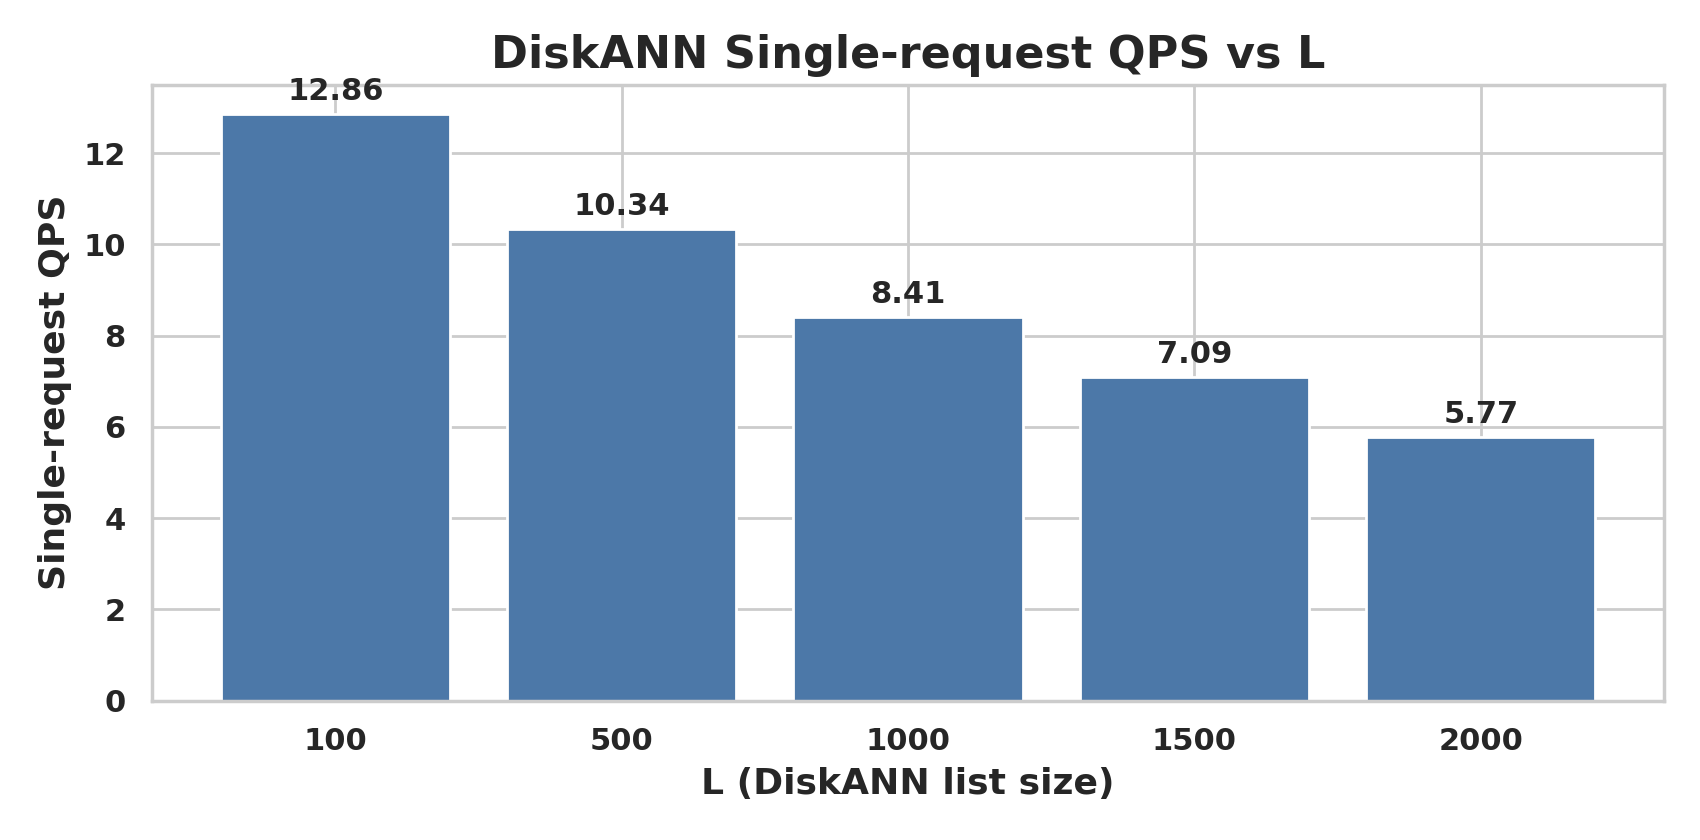
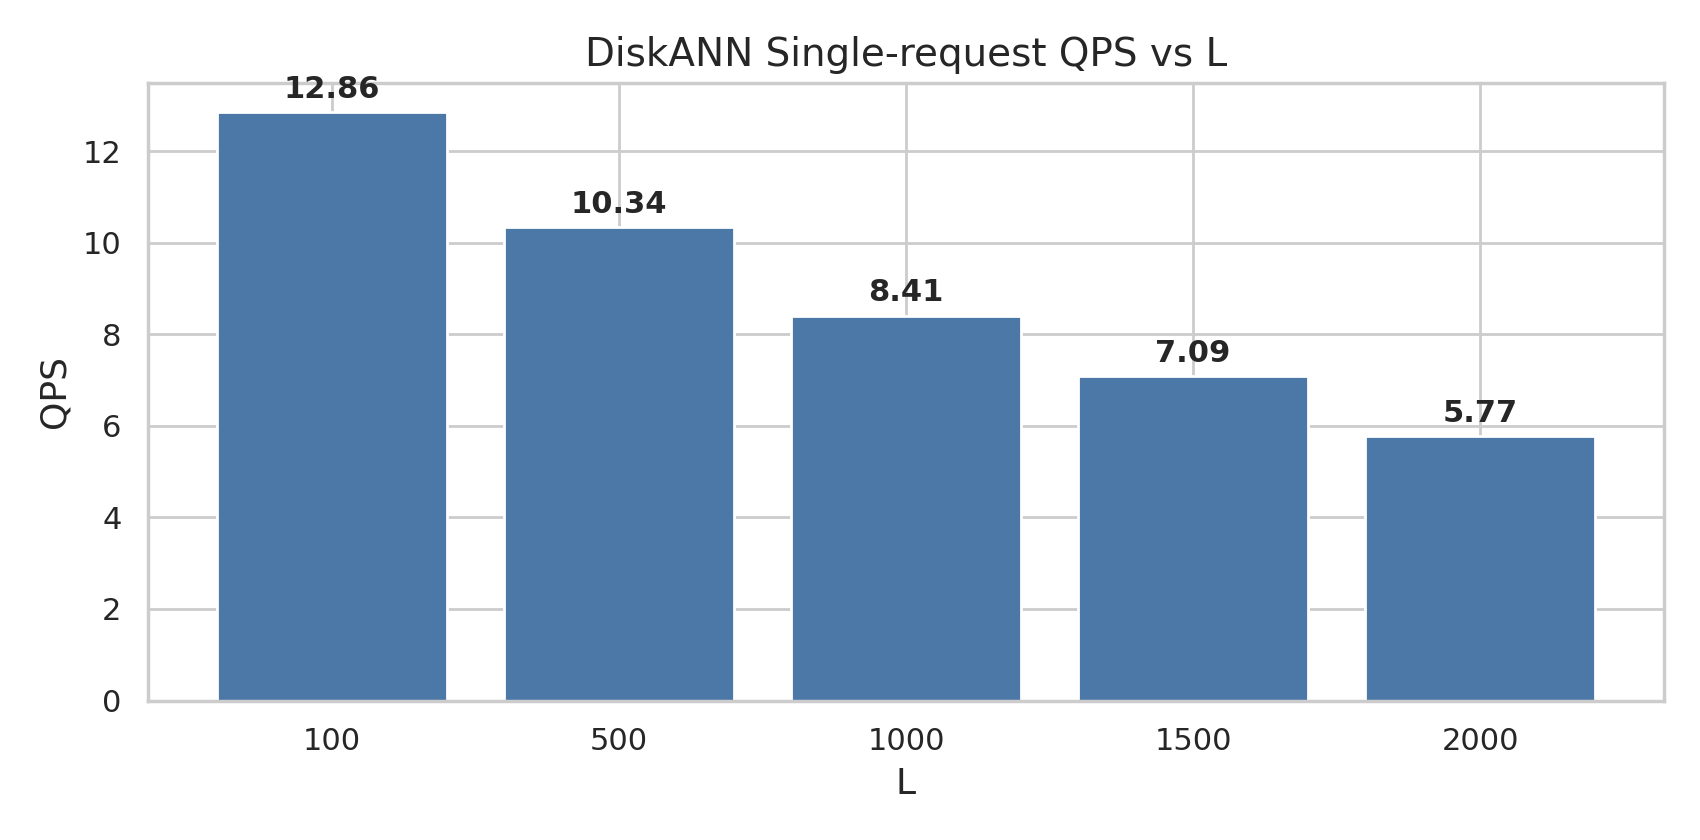
Attempt 6

diff --git a/scripts/plot_diskann_single_request_latency.py b/scripts/plot_diskann_single_request_latency.py
@@ -54,8 +54,8 @@ def main() -> None:
 
     metrics = [
         ("embed_ms", "Embed"),
-        ("search_ms", "DiskANN search"),
-        ("map_ms", "Mapping"),
+        ("map_ms", "Passage map"),
+        ("search_ms", "Index search"),
         ("total_ms", "Total"),
     ]
 
@@ -75,9 +75,9 @@ def main() -> None:
 
     ax.set_xticks(range(num_groups))
     ax.set_xticklabels(labels)
-    ax.set_xlabel("DiskANN list size L", fontsize=13, fontweight="bold")
-    ax.set_ylabel("Latency per request (ms)", fontsize=13, fontweight="bold")
-    ax.set_title("DiskANN Single-request Latency Breakdown", fontsize=16, fontweight="bold")
+    ax.set_xlabel("L", fontsize=13)
+    ax.set_ylabel("Latency (ms)", fontsize=13)  # match breakdown style; not bold
+    ax.set_title("DiskANN Single-request Latency Breakdown", fontsize=14)  # smaller, unbold
     ax.legend(ncol=4, fontsize=11)
 
     for tick in list(ax.get_xticklabels()) + list(ax.get_yticklabels()):

diff --git a/scripts/plot_diskann_single_request_qps.py b/scripts/plot_diskann_single_request_qps.py
@@ -63,13 +63,12 @@ def main() -> None:
     plt.figure(figsize=(8.5, 4.2))
     ax = plt.gca()
     ax.bar(labels, values, color=BAR_COLOR)
-    ax.set_xlabel("L (DiskANN list size)", fontsize=13, fontweight="bold")
-    ax.set_ylabel("Single-request QPS", fontsize=13, fontweight="bold")
-    ax.set_title("DiskANN Single-request QPS vs L", fontsize=16, fontweight="bold")
+    ax.set_xlabel("L", fontsize=13)
+    ax.set_ylabel("QPS", fontsize=13)
+    ax.set_title("DiskANN Single-request QPS vs L", fontsize=14)  # unbold, smaller to match batched
 
     for tick in list(ax.get_xticklabels()) + list(ax.get_yticklabels()):
         tick.set_fontsize(11)
-        tick.set_fontweight("bold")
 
     annotate(ax)
     plt.tight_layout()

diff --git a/docs/index.md b/docs/index.md
@@ -185,7 +185,7 @@ details > summary {
 
 <div class="overview-box">
   <ol style="margin: 0; padding-left: 20px;">
-    <li style="margin-bottom: 8px;">You can turn any large in-house dataset (<1T tokens) into a <b>high-throughput (200+ end-to-end QPS)</b>, <b>memory-efficient (<200 GB RAM)</b> retrieval system with a <b>web UI and API</b>.</li>
+    <li style="margin-bottom: 8px;">You can turn any large in-house dataset (<1T tokens) into a <b>high-throughput (up to 10000 QPS)</b>, <b>memory-efficient (<200 GB RAM)</b> retrieval system with a <b>web UI and API</b>.</li>
     <li>Our <b>prototype</b>, built on <b>400B words</b> of high-quality LLM pre-training data, is readily available and provides downstream gains comparable to commercial search engine endpoints.</li>
     <li>DiskANN delivers the best balance of accuracy, latency, and RAM cost in our deployments, outperforming IVFPQ on real workloads.</li>
   </ol>
